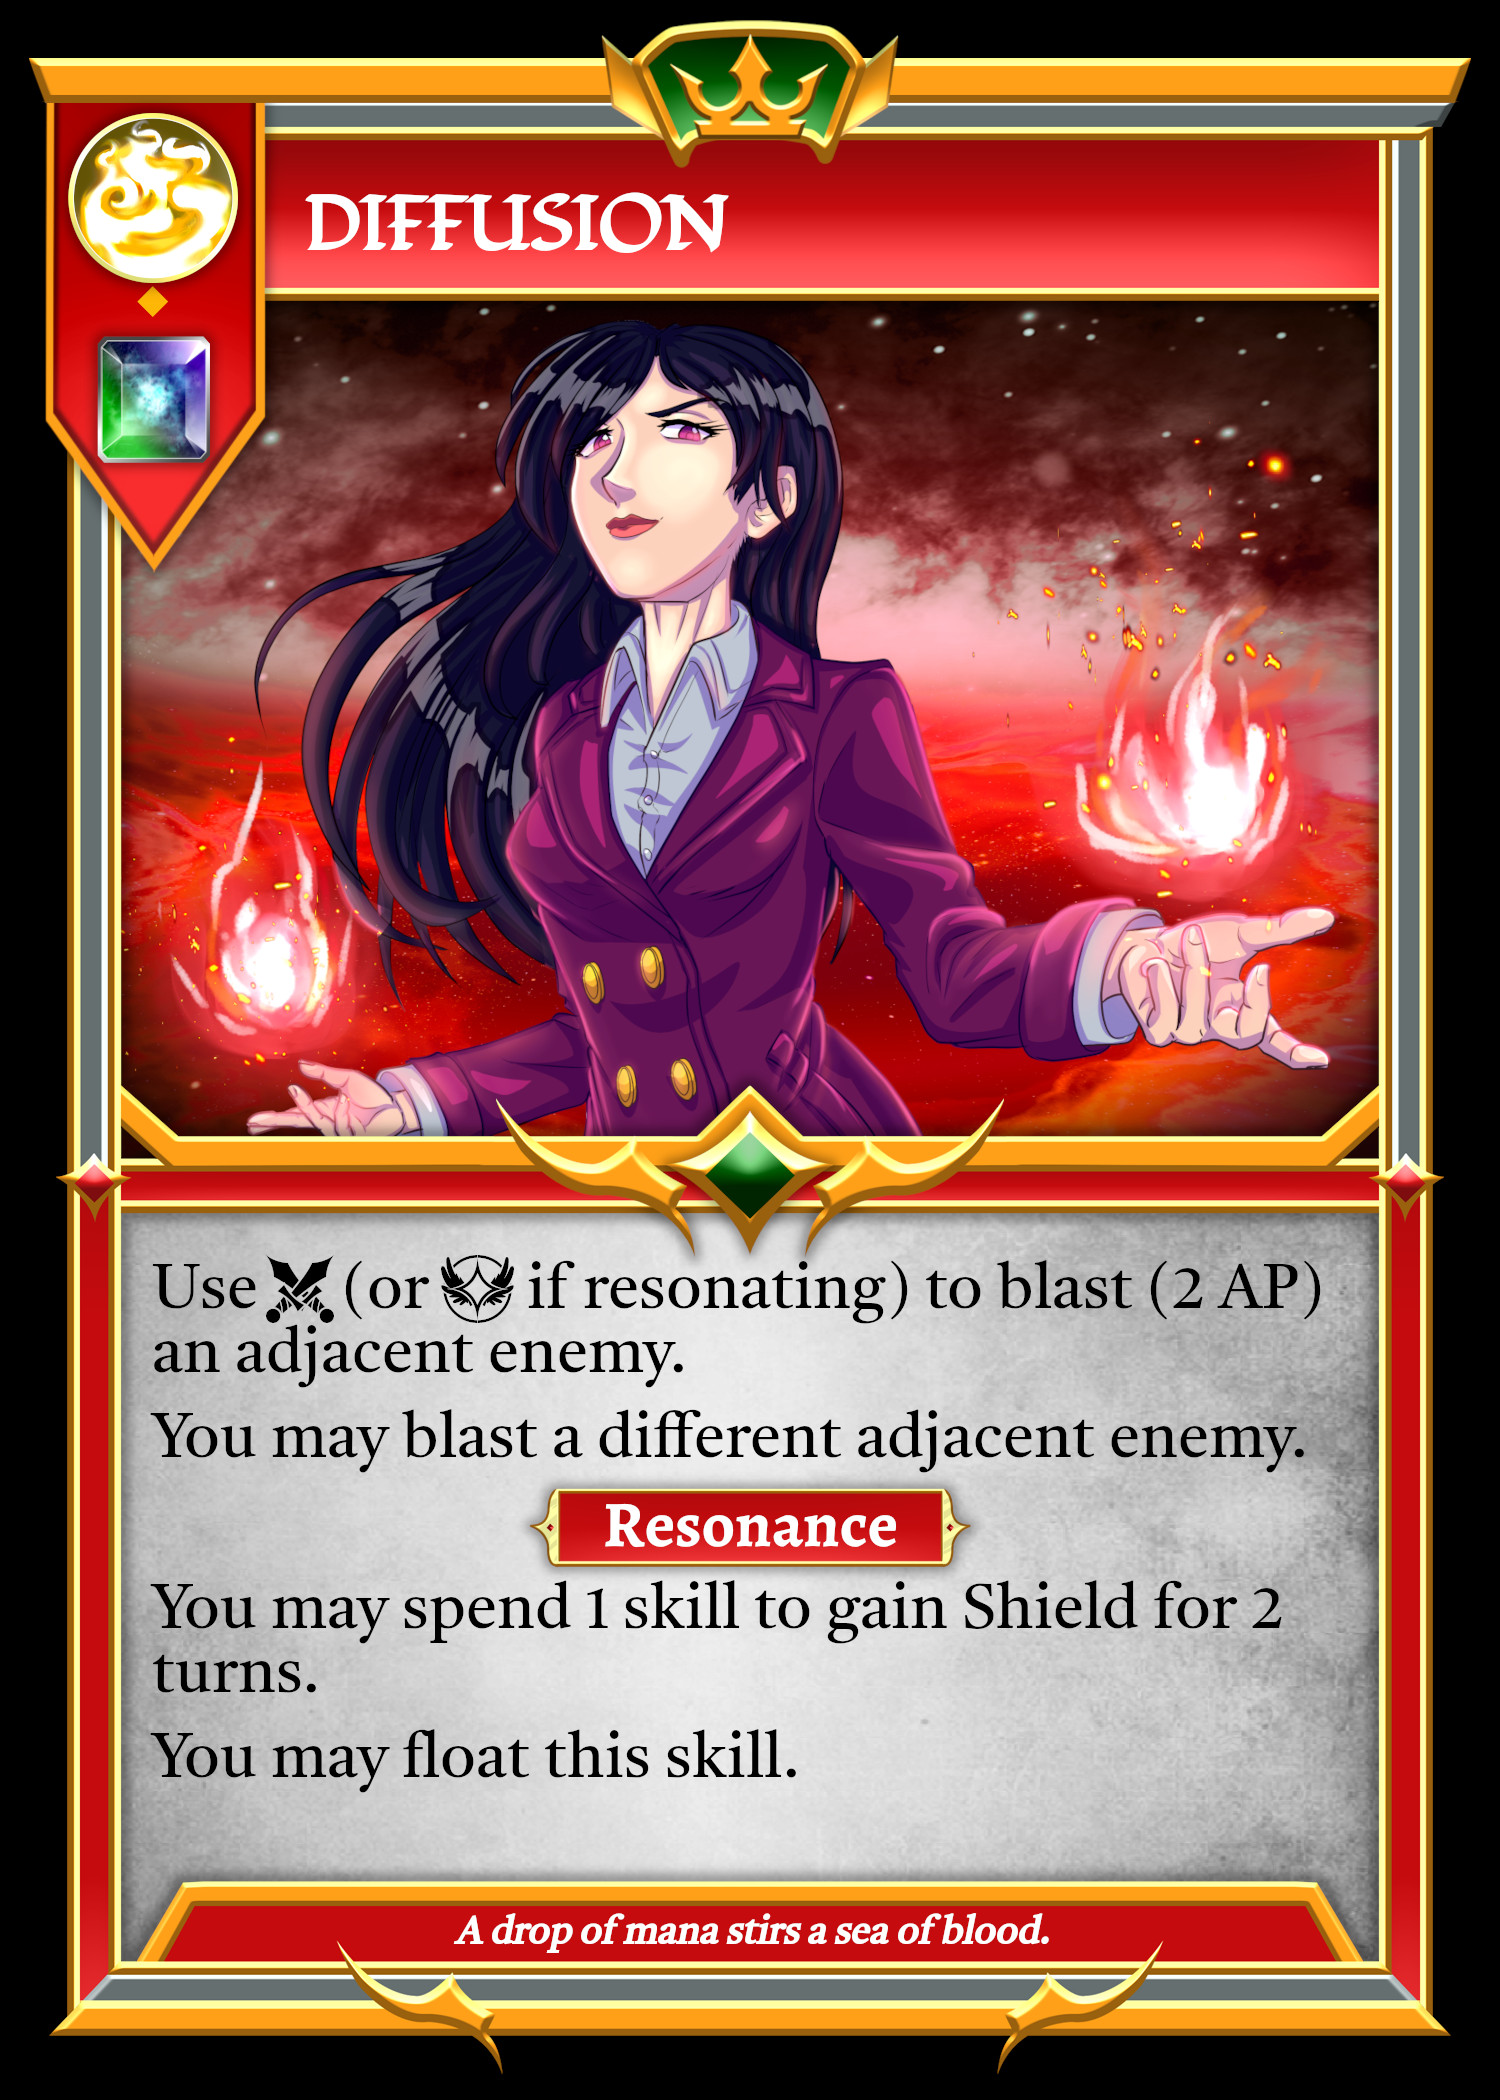
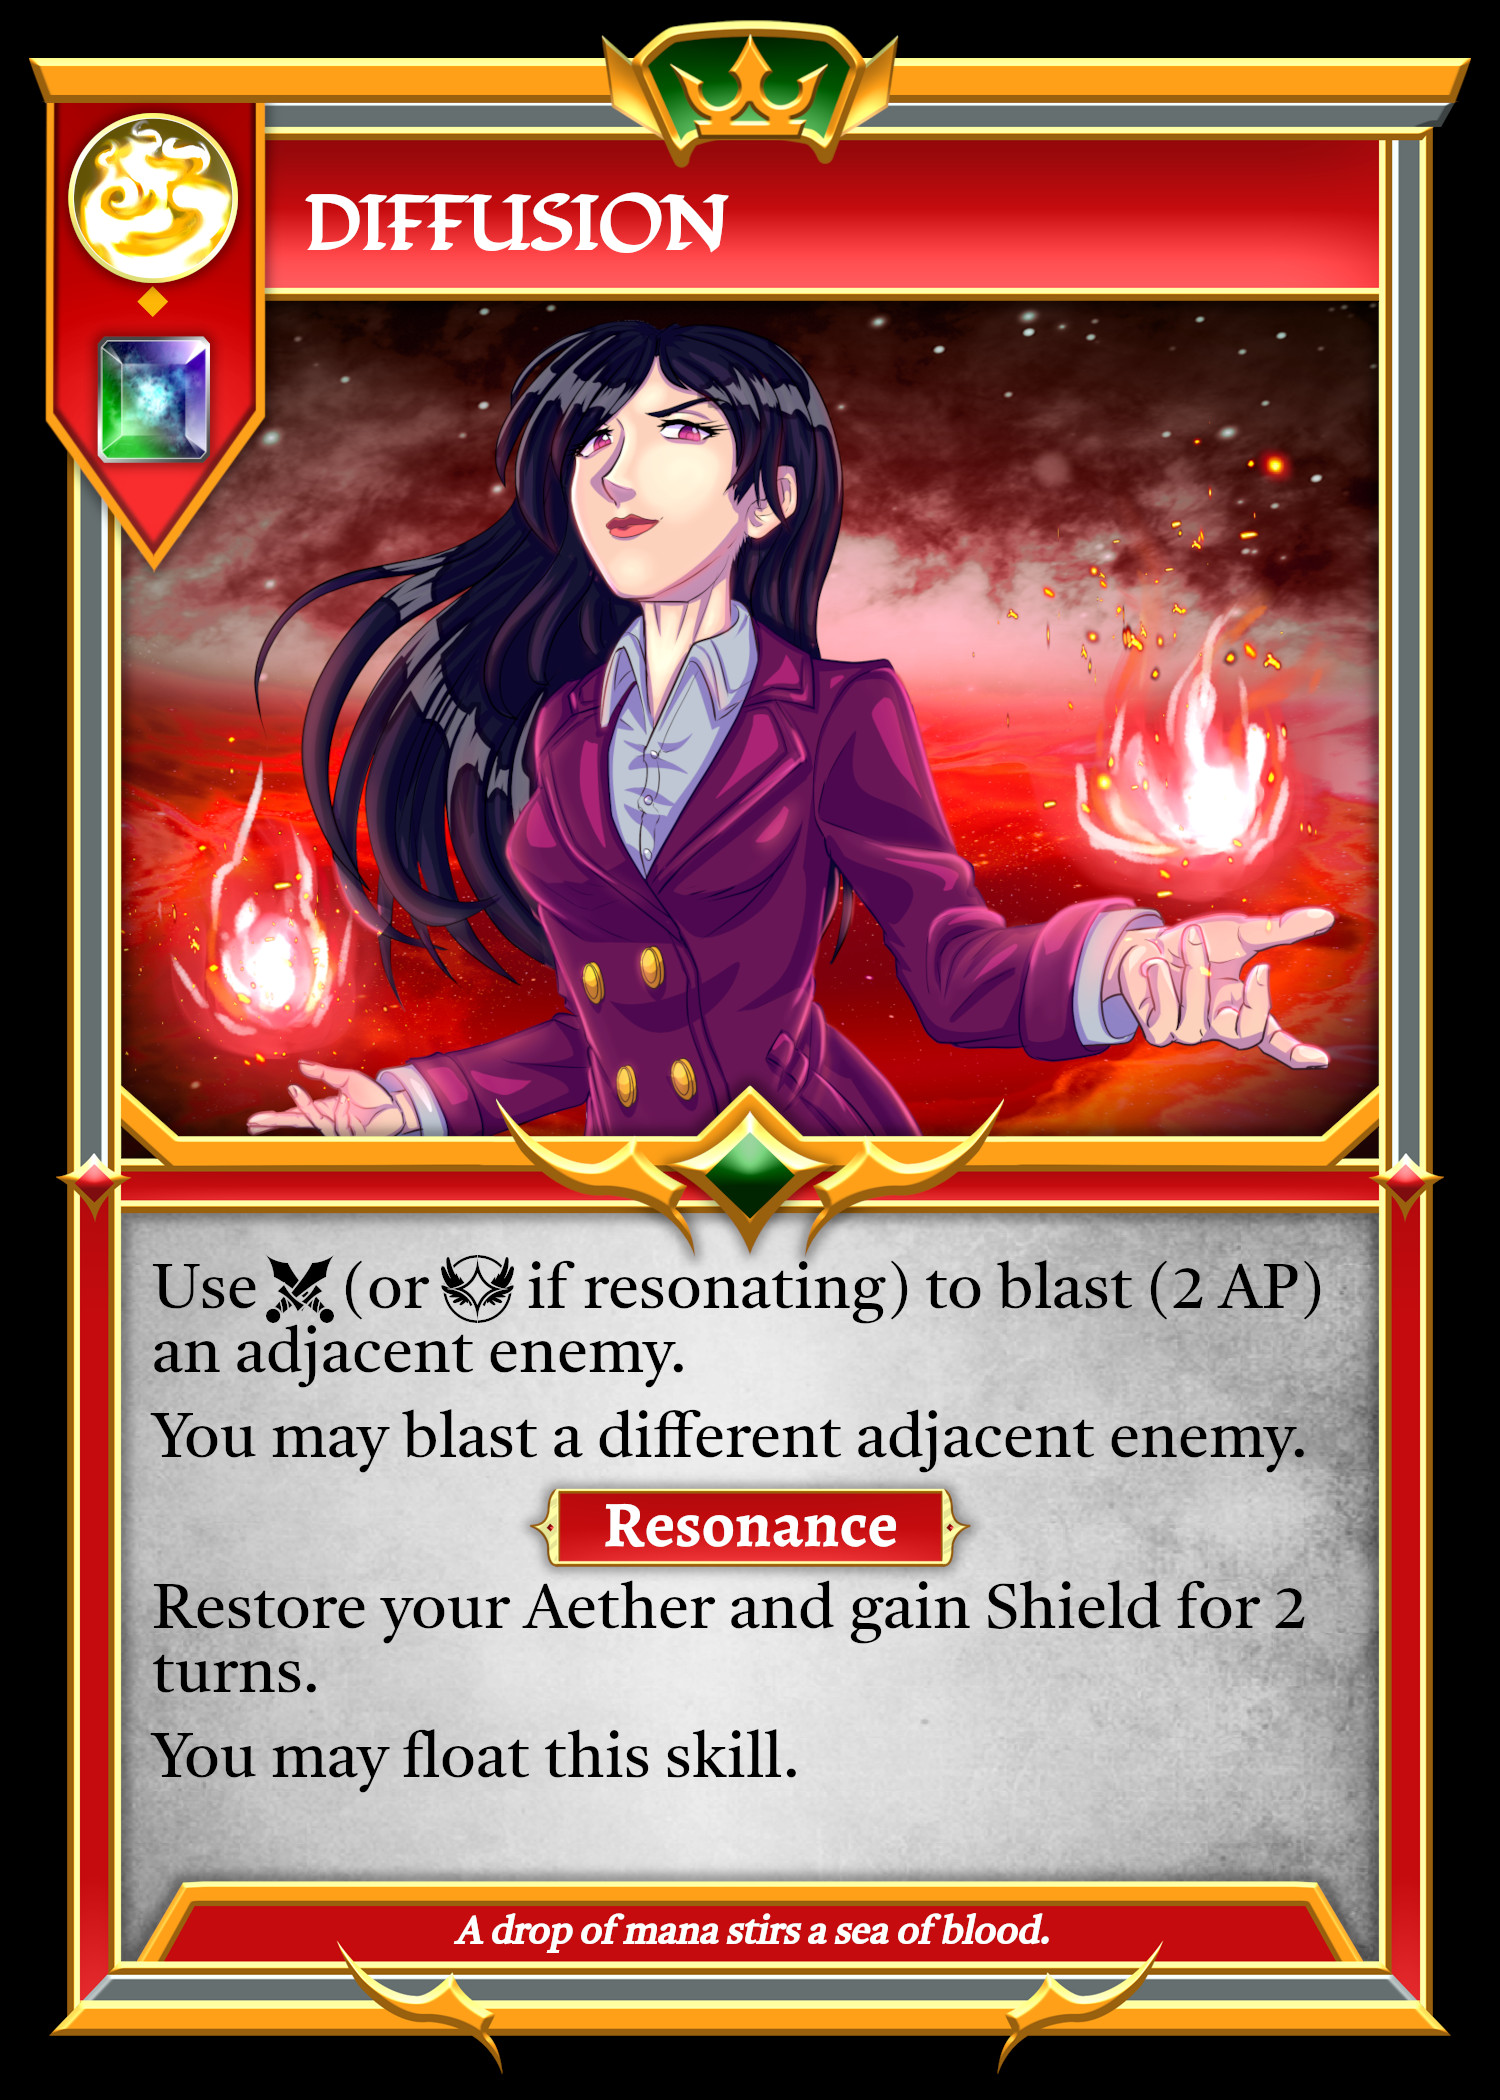
Buffed Diffusion resonance. Fixed tea trial repertoire

Changed region(s): [[0.092, 0.7429, 0.8587, 0.8048]]

diff --git a/src/hooks/useSkillEffects.jsx b/src/hooks/useSkillEffects.jsx
@@ -1646,37 +1646,13 @@ export const useSkillEffects = () => {
     //end "DiffusionR1" resolution
     newGameState.currentResolution.pop();
 
-    if (
-      unit !== null &&
-      !isMuted(unit) &&
-      newGameState[unit.player].skillHand.length > 0
-    ) {
-      newGameState.currentResolution.push({
-        resolution: "Mana Skill",
-        resolution2: "DiffusionR2",
-        unit: unit,
-        details: {
-          title: "Diffusion",
-          message: "You may spend 1 skill to gain Shield for 2 turns.",
-          restriction: null,
-          reason: "Diffusion Shield",
-        },
-      });
+    if (unit !== null && !isMuted(unit)) {
+      unit.aether = 1;
+
+      unit.enhancements.shield
+        ? (unit.enhancements.shield = Math.max(2, unit.enhancements.shield))
+        : (unit.enhancements.shield = 2);
     }
-
-    return newGameState;
-  };
-
-  const diffusionR3 = (unitInfo) => {
-    let newGameState = JSON.parse(JSON.stringify(localGameState));
-    let unit = newGameState[unitInfo.player].units[unitInfo.unitIndex];
-
-    //end "DiffusionR3" resolution
-    newGameState.currentResolution.pop();
-
-    unit.enhancements.shield
-      ? (unit.enhancements.shield = Math.max(3, unit.enhancements.shield))
-      : (unit.enhancements.shield = 2);
 
     return newGameState;
   };
@@ -2493,8 +2469,6 @@ export const useSkillEffects = () => {
         return diffusion2(a);
       case "diffusionR2":
         return diffusionR2(a);
-      case "diffusionR3":
-        return diffusionR3(a);
       case "aegis1":
         return aegis1(a, b);
       case "disruptionField1":

diff --git a/src/components/displays/ViewRepertoireTrial.jsx b/src/components/displays/ViewRepertoireTrial.jsx
@@ -6,14 +6,12 @@ import { faMagnifyingGlass } from "@fortawesome/free-solid-svg-icons";
 
 import { useSelector, useDispatch } from "react-redux";
 import { updateMagnifiedSkill } from "../../redux/magnifySkill";
-import { updateState } from "../../redux/gameState";
 
 import { useGetImages } from "../../hooks/useGetImages";
 
 const ViewRepertoireTrial = (props) => {
   const { localGameState } = useSelector((state) => state.gameState);
   const { self } = useSelector((state) => state.teams);
-  const { magnifiedSkill } = useSelector((state) => state.magnifiedSkill);
 
   const dispatch = useDispatch();
 
@@ -25,17 +23,16 @@ const ViewRepertoireTrial = (props) => {
   switch (props.repertoire) {
     case "Skill Repertoire":
       repertoire = [...localGameState[props.team].skillRepertoire];
-      floatingRepertoire = repertoire.splice(
-        0,
-        localGameState[props.team].skillFloat
-      );
+      floatingRepertoire = repertoire
+        .reverse()
+        .splice(0, localGameState[props.team].skillFloat);
+      console.log(floatingRepertoire);
       break;
     case "Avelhem Repertoire":
       repertoire = [...localGameState[props.team].avelhemRepertoire];
-      floatingRepertoire = repertoire.splice(
-        0,
-        localGameState[props.team].avelhemFloat
-      );
+      floatingRepertoire = repertoire
+        .reverse()
+        .splice(0, localGameState[props.team].avelhemFloat);
       break;
   }
 

diff --git a/src/components/BoardArea.jsx b/src/components/BoardArea.jsx
@@ -2578,26 +2578,6 @@ const BoardArea = (props) => {
             }
             break;
 
-          case "DiffusionR2":
-            return (
-              <>
-                {self === lastRes.unit.player && !hideModal && (
-                  <YouMaySpend1Skill
-                    unit={lastRes.unit}
-                    details={lastRes.details}
-                    updateFirebase={updateFirebase}
-                    hideOrRevealModale={hideOrRevealModale}
-                  />
-                )}
-              </>
-            );
-
-          case "DiffusionR3":
-            if (self === lastRes.unit.player) {
-              updateLocalState(applySkill("diffusionR3", lastRes.unit));
-            }
-            break;
-
           case "Select Aegis Activator":
             if (self === lastRes.player) {
               selectAegisActivator(lastRes.victim);
@@ -3833,6 +3813,10 @@ const BoardArea = (props) => {
         localGameState.currentResolution[
           localGameState.currentResolution.length - 1
         ];
+
+      if (lastRes.resolution === "Animation Delay") {
+        return lastRes.priority === self;
+      }
 
       if (lastRes.resolution2 === "Triggering Target") {
         return lastRes.victim.player === self;

diff --git a/src/components/modals/UnitInfo.jsx b/src/components/modals/UnitInfo.jsx
@@ -303,14 +303,14 @@ const UnitInfo = (props) => {
 
             <p className="unitInfo-text-heading2">2. Sonic Breeze</p>
             <p className="unitInfo-text-desc">
-              ⬩Your deployment and movements bypass motion contingent skills.
+              ⬩When you activate a skill, gain 1 Cyclone (Max. 2).
             </p>
             <p className="unitInfo-text-desc">
-              ⬩Your and your adjacent allies’ skill activations bypass
-              “Symphonic Screech”.
+              ⬩Your deployment and movements bypass motion contingent skills.
             </p>
             <p className="unitInfo-text-desc unitInfo-text-last">
-              When you activate a skill, gain 1 Cyclone (Max. 2).
+              ⬩Your and your adjacent allies’ skill activations bypass
+              “Symphonic Screech”.
             </p>
           </>
         );

diff --git a/src/components/modals/YouMaySpend1Skill.jsx b/src/components/modals/YouMaySpend1Skill.jsx
@@ -198,14 +198,6 @@ const YouMaySpend1Skill = (props) => {
         //newGameState[props.unit.player].units[props.unit.unitIndex] = unit;
         break;
 
-      case "Diffusion Shield":
-        newGameState.currentResolution.push({
-          resolution: "Mana Skill",
-          resolution2: "DiffusionR3",
-          unit: unit,
-        });
-        break;
-
       case "Arsenal Onslaught Attack":
         newGameState.currentResolution.push({
           resolution: "Metal Skill",

diff --git a/src/components/modals/Modal.css b/src/components/modals/Modal.css
@@ -44,6 +44,7 @@
 }
 
 
+
 @keyframes modalDescent {
     0% {
         top: -40%;
